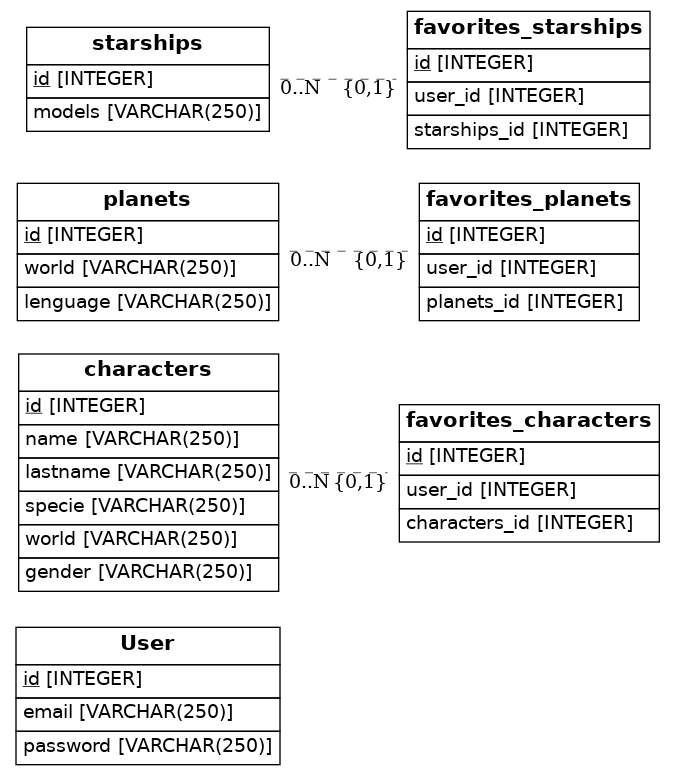
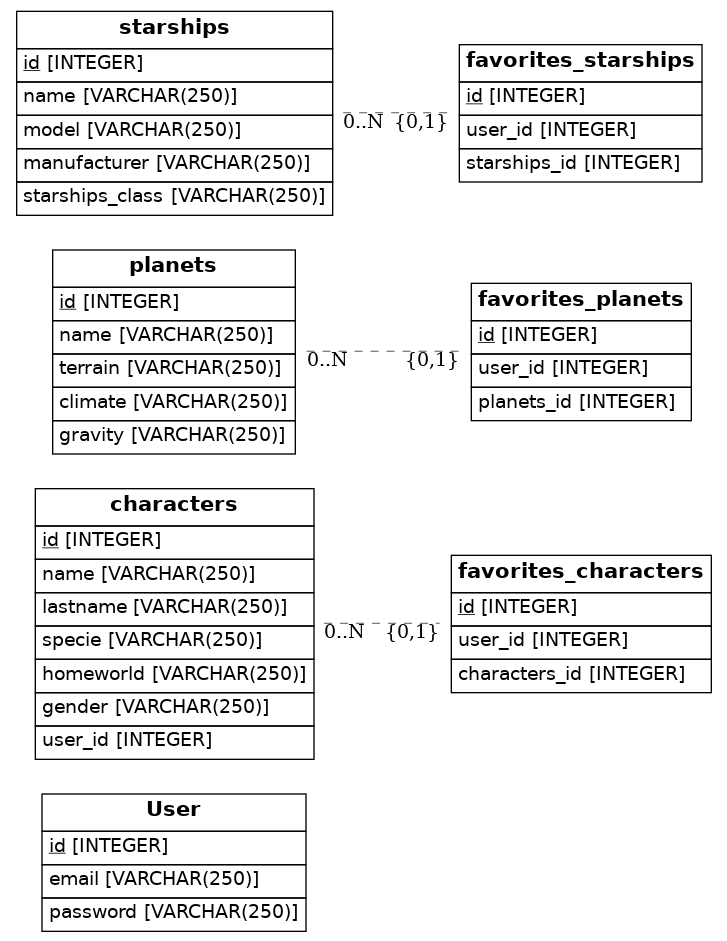
arreglo starwars

Changed region(s): [[0.0, 0.0, 0.9644, 0.991], [0.5289, 0.5265, 0.9956, 0.7432], [0.5289, 0.3097, 0.56, 0.3406]]

diff --git a/src/models.py b/src/models.py
@@ -13,6 +13,10 @@ class User(Base):
     id = Column(Integer, primary_key=True)
     email = Column(String(250), nullable=False)
     password = Column(String(250), nullable=False)
+    favorites_characters = relationship ('favorites_characters')
+    favorites_planets = relationship ('favorites_planets')
+    favorites_starships = relationship ('favorites_starships')
+
 
 class Characters(Base):
     __tablename__ = 'characters'
@@ -20,23 +24,10 @@ class Characters(Base):
     name = Column(String(250), nullable=False)
     lastname = Column(String(250), nullable=False)
     specie = Column(String(250), nullable=False)
-    world = Column(String(250), nullable=False)
+    homeworld = Column(String(250), nullable=False)
     gender = Column(String(250), nullable=False)
-    relacion = relationship ('favorites_characters')
-
-class planets(Base):
-    __tablename__ = 'planets'
-    id = Column(Integer, primary_key=True)
-    world = Column(String(250), nullable=False)
-    lenguage = Column(String(250), nullable=False)
-    relacion = relationship ('favorites_planets')
-
-
-class starships(Base):
-    __tablename__ = 'starships'
-    id = Column(Integer, primary_key=True)
-    models = Column(String(250), nullable=False)
-    relacion = relationship ('favorites_starships')
+    user_id = Column(Integer, ForeignKey('user.id'))
+    favorites_characters = relationship ('favorites_characters')
 
 class favorites_characters(Base):
     __tablename__ = 'favorites_characters'
@@ -44,11 +35,29 @@ class favorites_characters(Base):
     user_id = Column(Integer, ForeignKey('user.id'))
     characters_id = Column(Integer, ForeignKey('characters.id'))
 
+class planets(Base):
+    __tablename__ = 'planets'
+    id = Column(Integer, primary_key=True)
+    name = Column(String(250), nullable=False)
+    terrain = Column(String(250), nullable=False)
+    climate = Column(String(250), nullable=False)
+    gravity = Column(String(250), nullable=False)
+    favorites_planets = relationship ('favorites_planets')
+
 class favorites_planets(Base):
     __tablename__ = 'favorites_planets'
     id = Column(Integer, primary_key=True)
     user_id = Column(Integer, ForeignKey('user.id'))
     planets_id = Column(Integer, ForeignKey('planets.id'))
+
+class starships(Base):
+    __tablename__ = 'starships'
+    id = Column(Integer, primary_key=True)
+    name = Column(String(250), nullable=False)
+    model = Column(String(250), nullable=False)
+    manufacturer = Column(String(250), nullable=False)
+    starships_class = Column(String(250), nullable=False)
+    favorites_starships = relationship ('favorites_starships')
 
 class favorites_starships(Base):
     __tablename__ = 'favorites_starships'
